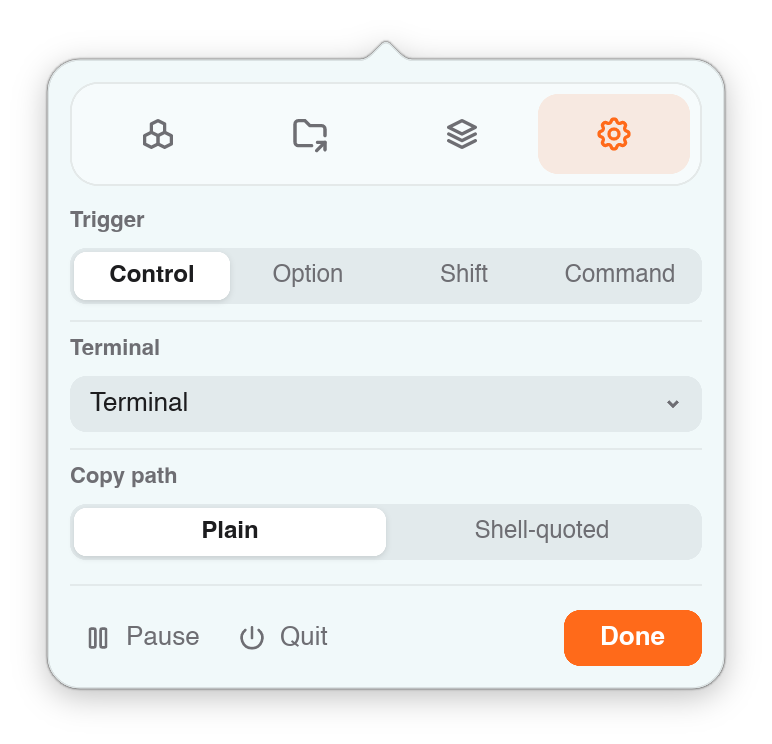
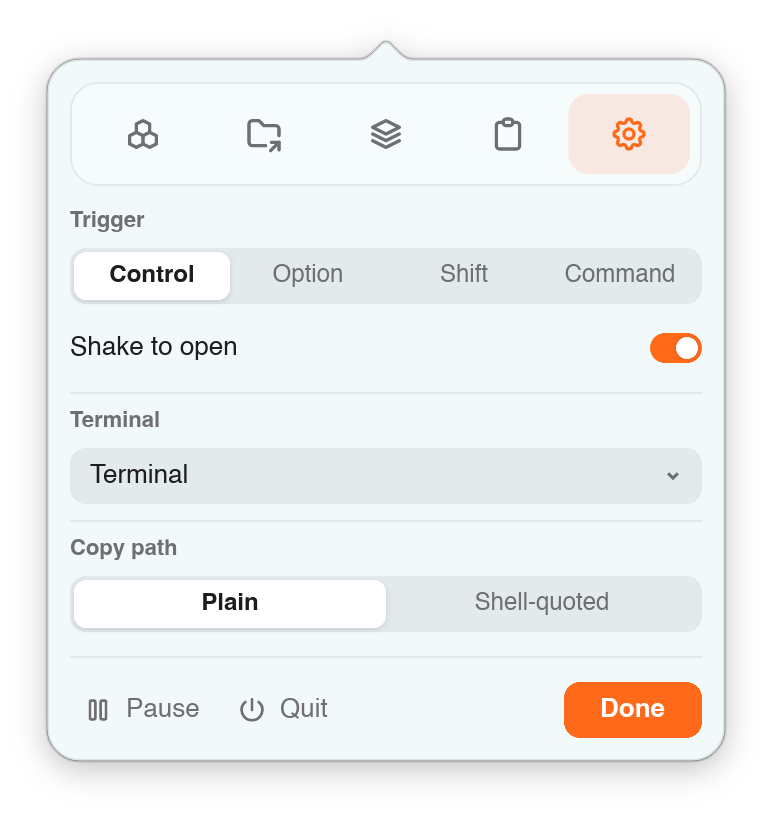
docs: Clipboard tab and Open Anyway screenshots for the first release

diff --git a/README.md b/README.md
@@ -47,7 +47,10 @@ with a warning. You only need to get past this once.
    ![macOS dialog saying Vento could not be verified](.github/assets/gatekeeper-15-blocked.png)
 
 2. Open **System Settings → Privacy & Security** and scroll down to the message
-   about Vento. Click **Open Anyway**, then confirm with your password or Touch ID.
+   about Vento. Click **Open Anyway**, confirm with your password or Touch ID,
+   then click **Open** in the last dialog.
+
+   ![Privacy & Security settings: "Vento" was blocked to protect your Mac, with an Open Anyway button](.github/assets/gatekeeper-15-open-anyway.png)
 
 **macOS 13 Ventura and 14 Sonoma**
 
@@ -196,13 +199,15 @@ right away.
 | <img src=".github/assets/settings-wheel.png" alt="Wheel tab: layout and the list of actions with on and off switches" width="300"> | <img src=".github/assets/settings-move.png" alt="Move tab: pinned folders, recent folders and the hold time" width="300"> |
 | Honeycomb or petals layout; which actions show and in what order. | Pinned and recent folders for the Move ring, and how long to hold. |
 
-| Pocket | General |
+| Pocket | Clipboard |
 |:---:|:---:|
-| <img src=".github/assets/settings-pocket.png" alt="Pocket tab: shortcut and two switches" width="300"> | <img src=".github/assets/settings-general.png" alt="General tab: trigger key, terminal app and Copy path format" width="300"> |
-| The Pocket shortcut, and what happens after you drag items out. | The key that opens the wheel, shaking to open it, your terminal app, and how paths are copied. |
+| <img src=".github/assets/settings-pocket.png" alt="Pocket tab: shortcut and two switches" width="300"> | <img src=".github/assets/settings-clipboard.png" alt="Clipboard tab: clipboard history switch, its shortcut and Clear history" width="300"> |
+| The Pocket shortcut, and what happens after you drag items out. | Clipboard history on or off, its shortcut, and clearing it. |
 
-The **Clipboard** tab switches the clipboard history on or off, sets its
-shortcut, and clears it.
+| General | |
+|:---:|:---:|
+| <img src=".github/assets/settings-general.png" alt="General tab: trigger key, Shake to open, terminal app and Copy path format" width="300"> | |
+| The key that opens the wheel, shaking to open it, your terminal app, and how paths are copied. | |
 
 **Right-click** the icon for the menu: undo the last move, copy or archive, pause
 Vento, or quit.
